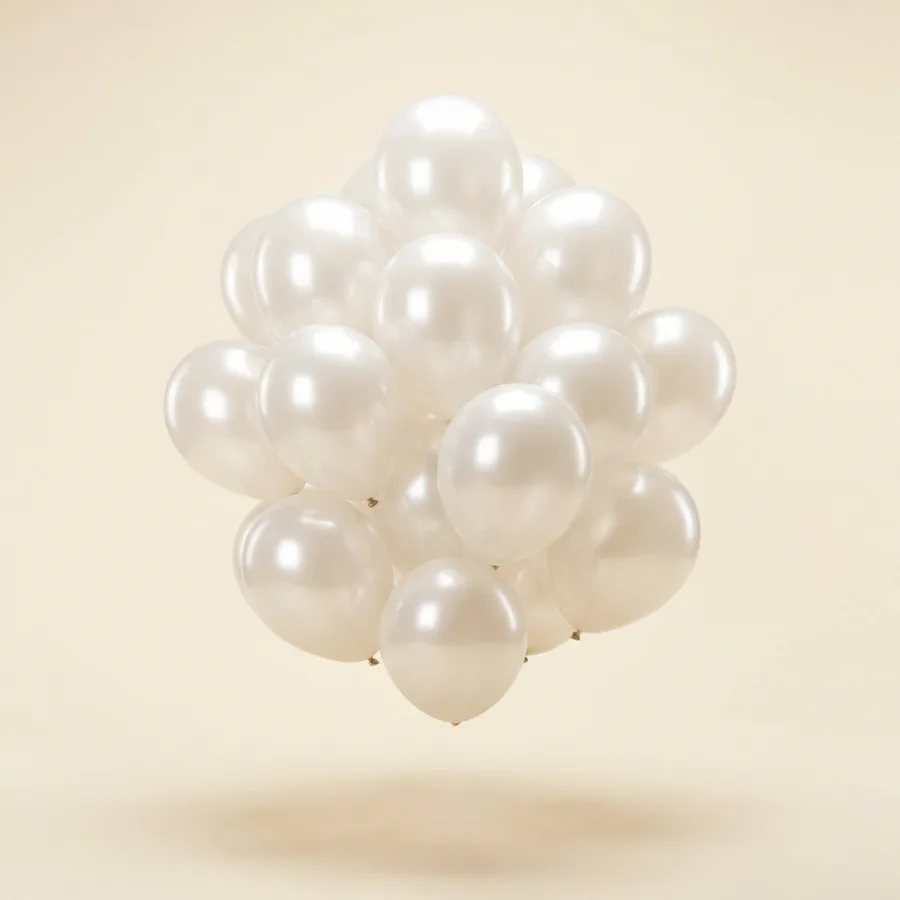
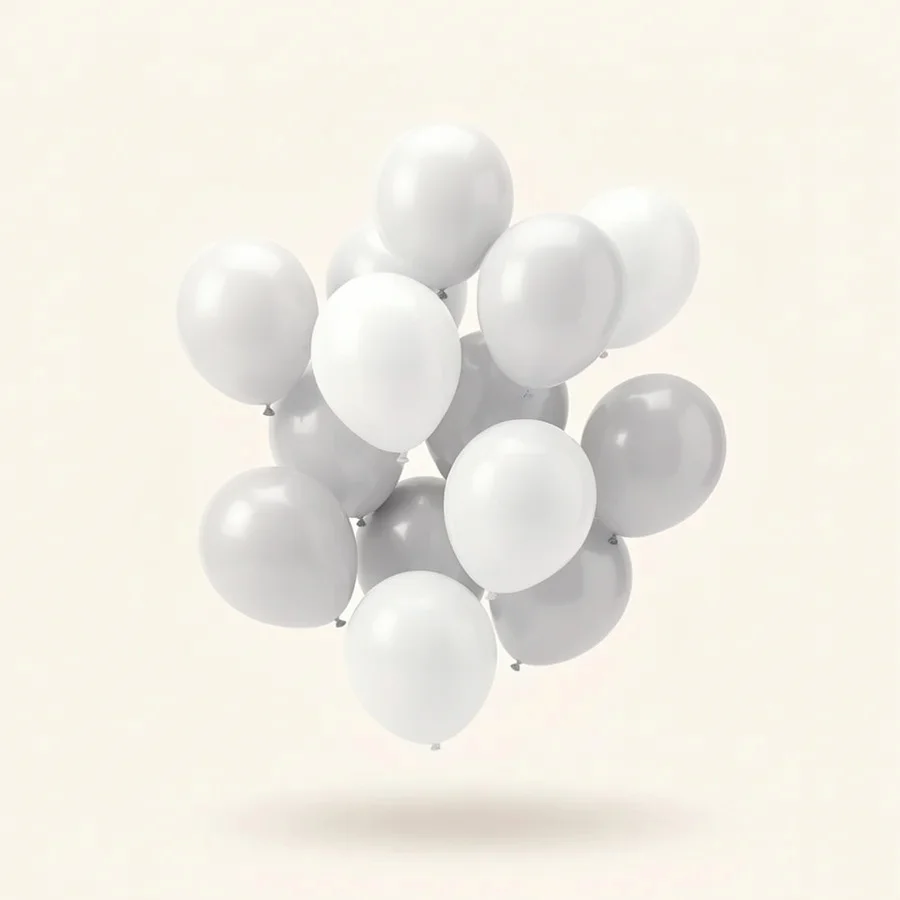
Prévia vazia: mesmo cacho da foto em branco e botão Escolha suas cores em degradê de tons vizinhos

diff --git a/glowbos/tema/glowbos/home.html b/glowbos/tema/glowbos/home.html
@@ -548,6 +548,11 @@ nav a{position:relative}nav a.at{color:var(--forte)}nav a.at:after{content:"";po
 .mpt button.on{animation:none;border-color:var(--pink,#ff1f7a)!important;box-shadow:0 0 0 3px #ffd3e3}
 @keyframes ctn{0%,100%{border-color:#FF8DB8}25%{border-color:#B99CF0}50%{border-color:#FFC2A1}75%{border-color:#FF7A6B}}
 @media (prefers-reduced-motion:reduce){.mpt button{animation:none}}
+/* Escolha suas cores: botão em degradê de tons vizinhos */
+.cc-vazio b{background:linear-gradient(110deg,#B0124F,#FF1F7A 45%,#FF7A6B)!important;color:#fff!important;font:700 17px Inter!important;padding:13px 22px!important;border-radius:99px!important;box-shadow:0 12px 26px rgba(176,18,79,.28)!important;gap:10px!important;cursor:pointer;background-size:180% 100%!important;animation:ccgrad 4s ease-in-out infinite!important}
+.cc-vazio b svg{width:22px!important;height:22px!important;color:#fff!important}
+@keyframes ccgrad{0%,100%{background-position:0% 50%}50%{background-position:100% 50%}}
+@media (max-width:980px){.cc-vazio b{flex-direction:row!important}}
 </style>
 </head>
 <body>
@@ -827,8 +832,8 @@ const svg=$('#mpsvg');
 // posições do cacho (x,y,raio)
 const POS=[[200,150,58],[135,190,54],[265,190,54],[165,110,48],[240,105,50],[200,235,52],[110,130,44],[290,135,46],[150,260,46],[255,265,48],[200,70,44],[95,225,42],[305,230,42],[200,300,40],[135,60,36],[270,55,38]];
 function pinta(){
- svg.innerHTML=SEQ.length?window.gbCacho(SEQ):'<img class="cc-foto" src="'+((window.GB&&GB.img)||'img/')+'pack_branco.webp" alt="Balões brancos perolados"><div class="cc-vazio"><b>Escolha suas cores<svg class="vd" viewBox="0 0 24 24" fill="none" stroke="currentColor" stroke-width="1.6" stroke-linecap="round" stroke-linejoin="round"><path d="M4 12h15M14 7l5 5-5 5"/></svg><svg class="vm" viewBox="0 0 24 24" fill="none" stroke="currentColor" stroke-width="1.6" stroke-linecap="round" stroke-linejoin="round"><path d="M12 4v15M7 14l5 5 5-5"/></svg></b></div>';
- svg.classList.toggle('vazio',!SEQ.length);
+ svg.innerHTML=SEQ.length?window.gbCacho(SEQ):'<img class="cc-foto" src="'+((window.GB&&GB.img)||'img/')+'pack_branco.webp?v=2" alt="Balões brancos"><div class="cc-vazio"><b>Escolha suas cores<svg class="vd" viewBox="0 0 24 24" fill="none" stroke="currentColor" stroke-width="1.6" stroke-linecap="round" stroke-linejoin="round"><path d="M4 12h15M14 7l5 5-5 5"/></svg><svg class="vm" viewBox="0 0 24 24" fill="none" stroke="currentColor" stroke-width="1.6" stroke-linecap="round" stroke-linejoin="round"><path d="M12 4v15M7 14l5 5 5-5"/></svg></b></div>';
+ svg.classList.toggle('vazio',!SEQ.length);const cv=svg.querySelector('.cc-vazio b');if(cv)cv.onclick=()=>document.getElementById('mpcores').scrollIntoView({behavior:'smooth',block:'center'});
  $('#mps').innerHTML=Array.from({length:T.c},(_,i)=>{const k=SEQ[i];return k===undefined?`<div class="slot"><i>${i+1}</i>escolha</div>`:`<div class="slot cheio" data-s="${i}" title="Tirar ${CORES[k][0]}"><i>${i+1}</i><img class="bimg" src="img/b_${window.GB_ARQ[k]}.webp" alt="">${CORES[k][0]}</div>`}).join('');
  document.querySelectorAll('.cor').forEach(b=>b.classList.toggle('usada',SEQ.includes(+b.dataset.k)||SEQ.length>=T.c));
  const falta=T.c-SEQ.length,nomes=SEQ.map(i=>CORES[i][0]);

diff --git a/glowbos/tema/glowbos/app.js b/glowbos/tema/glowbos/app.js
@@ -49,7 +49,7 @@
 			box.querySelectorAll('.gb-cor').forEach(function (b) { b.classList.toggle('usada', SEQ.indexOf(+b.dataset.i) > -1 || SEQ.length >= N); });
 			$('#gbCnt').textContent = SEQ.length + ' de ' + N;
 			var falta = N - SEQ.length, b = $('#gbAdd'); b.disabled = falta > 0; b.textContent = falta > 0 ? 'Escolha ' + (falta === 1 ? 'mais 1 cor' : 'mais ' + falta + ' cores') : 'Colocar no carrinho';
-			if (prev) { prev.innerHTML = '<div class="cacho' + (SEQ.length ? '' : ' vazio') + '">' + (SEQ.length ? cacho(SEQ.map(function (k) { return PAL[k][1]; })) : '<img class="cc-foto" src="' + IMG + 'pack_branco.webp" alt="">') + (SEQ.length ? '<span class="gb-tag">' + SEQ.map(function (k) { return PAL[k][0]; }).join(' · ') + '</span>' : '<div class="gb-vazio"><b>Escolha suas cores<svg viewBox="0 0 24 24" fill="none" stroke="currentColor" stroke-width="1.6" stroke-linecap="round" stroke-linejoin="round"><path d="M4 12h15M14 7l5 5-5 5"/></svg></b></div>') + '</div>'; }
+			if (prev) { prev.innerHTML = '<div class="cacho' + (SEQ.length ? '' : ' vazio') + '">' + (SEQ.length ? cacho(SEQ.map(function (k) { return PAL[k][1]; })) : '<img class="cc-foto" src="' + IMG + 'pack_branco.webp?v=2" alt="">') + (SEQ.length ? '<span class="gb-tag">' + SEQ.map(function (k) { return PAL[k][0]; }).join(' · ') + '</span>' : '<div class="gb-vazio"><b>Escolha suas cores<svg viewBox="0 0 24 24" fill="none" stroke="currentColor" stroke-width="1.6" stroke-linecap="round" stroke-linejoin="round"><path d="M4 12h15M14 7l5 5-5 5"/></svg></b></div>') + '</div>'; }
 		};
 		$('#gbCores').addEventListener('click', function (e) { var b = e.target.closest('.gb-cor'); if (!b || SEQ.length >= N || SEQ.indexOf(+b.dataset.i) > -1) return; SEQ.push(+b.dataset.i); pinta(); });
 		$('#gbSlots').addEventListener('click', function (e) { var s = e.target.closest('.gb-slot.cheio'); if (!s) return; SEQ.splice(+s.dataset.s, 1); pinta(); });

diff --git a/glowbos/tema/glowbos/app.css b/glowbos/tema/glowbos/app.css
@@ -75,3 +75,6 @@
 .gb-vazio{background:radial-gradient(closest-side,rgba(247,243,234,.92),rgba(247,243,234,0))}
 .gb-prev .cc-foto{position:absolute;inset:0;width:100%!important;height:100%!important;object-fit:cover}
 .gb-vazio{justify-content:flex-end;padding-bottom:9%;background:linear-gradient(180deg,rgba(247,243,234,0) 55%,rgba(247,243,234,.95) 82%)}
+.gb-vazio b{background:linear-gradient(110deg,#B0124F,#FF1F7A 45%,#FF7A6B)!important;background-size:180% 100%!important;color:#fff!important;font:700 17px Inter!important;padding:13px 22px!important;border-radius:99px!important;box-shadow:0 12px 26px rgba(176,18,79,.28)!important;animation:ccgrad 4s ease-in-out infinite}
+.gb-vazio b svg{width:22px!important;height:22px!important;color:#fff!important}
+@keyframes ccgrad{0%,100%{background-position:0% 50%}50%{background-position:100% 50%}}

diff --git a/glowbos/tema/glowbos/functions.php b/glowbos/tema/glowbos/functions.php
@@ -459,7 +459,7 @@ function glowbos_app_config( $pid ) {
 }
 add_action( 'wp_enqueue_scripts', function () {
 	if ( function_exists( 'is_product' ) && is_product() && glowbos_app_config( get_queried_object_id() ) ) {
-		$v = wp_get_theme()->get( 'Version' ) . '.6';
+		$v = wp_get_theme()->get( 'Version' ) . '.7';
 		wp_enqueue_style( 'glowbos-app', get_template_directory_uri() . '/app.css', array( 'glowbos' ), $v );
 		wp_enqueue_script( 'glowbos-app', get_template_directory_uri() . '/app.js', array(), $v, true );
 	}
